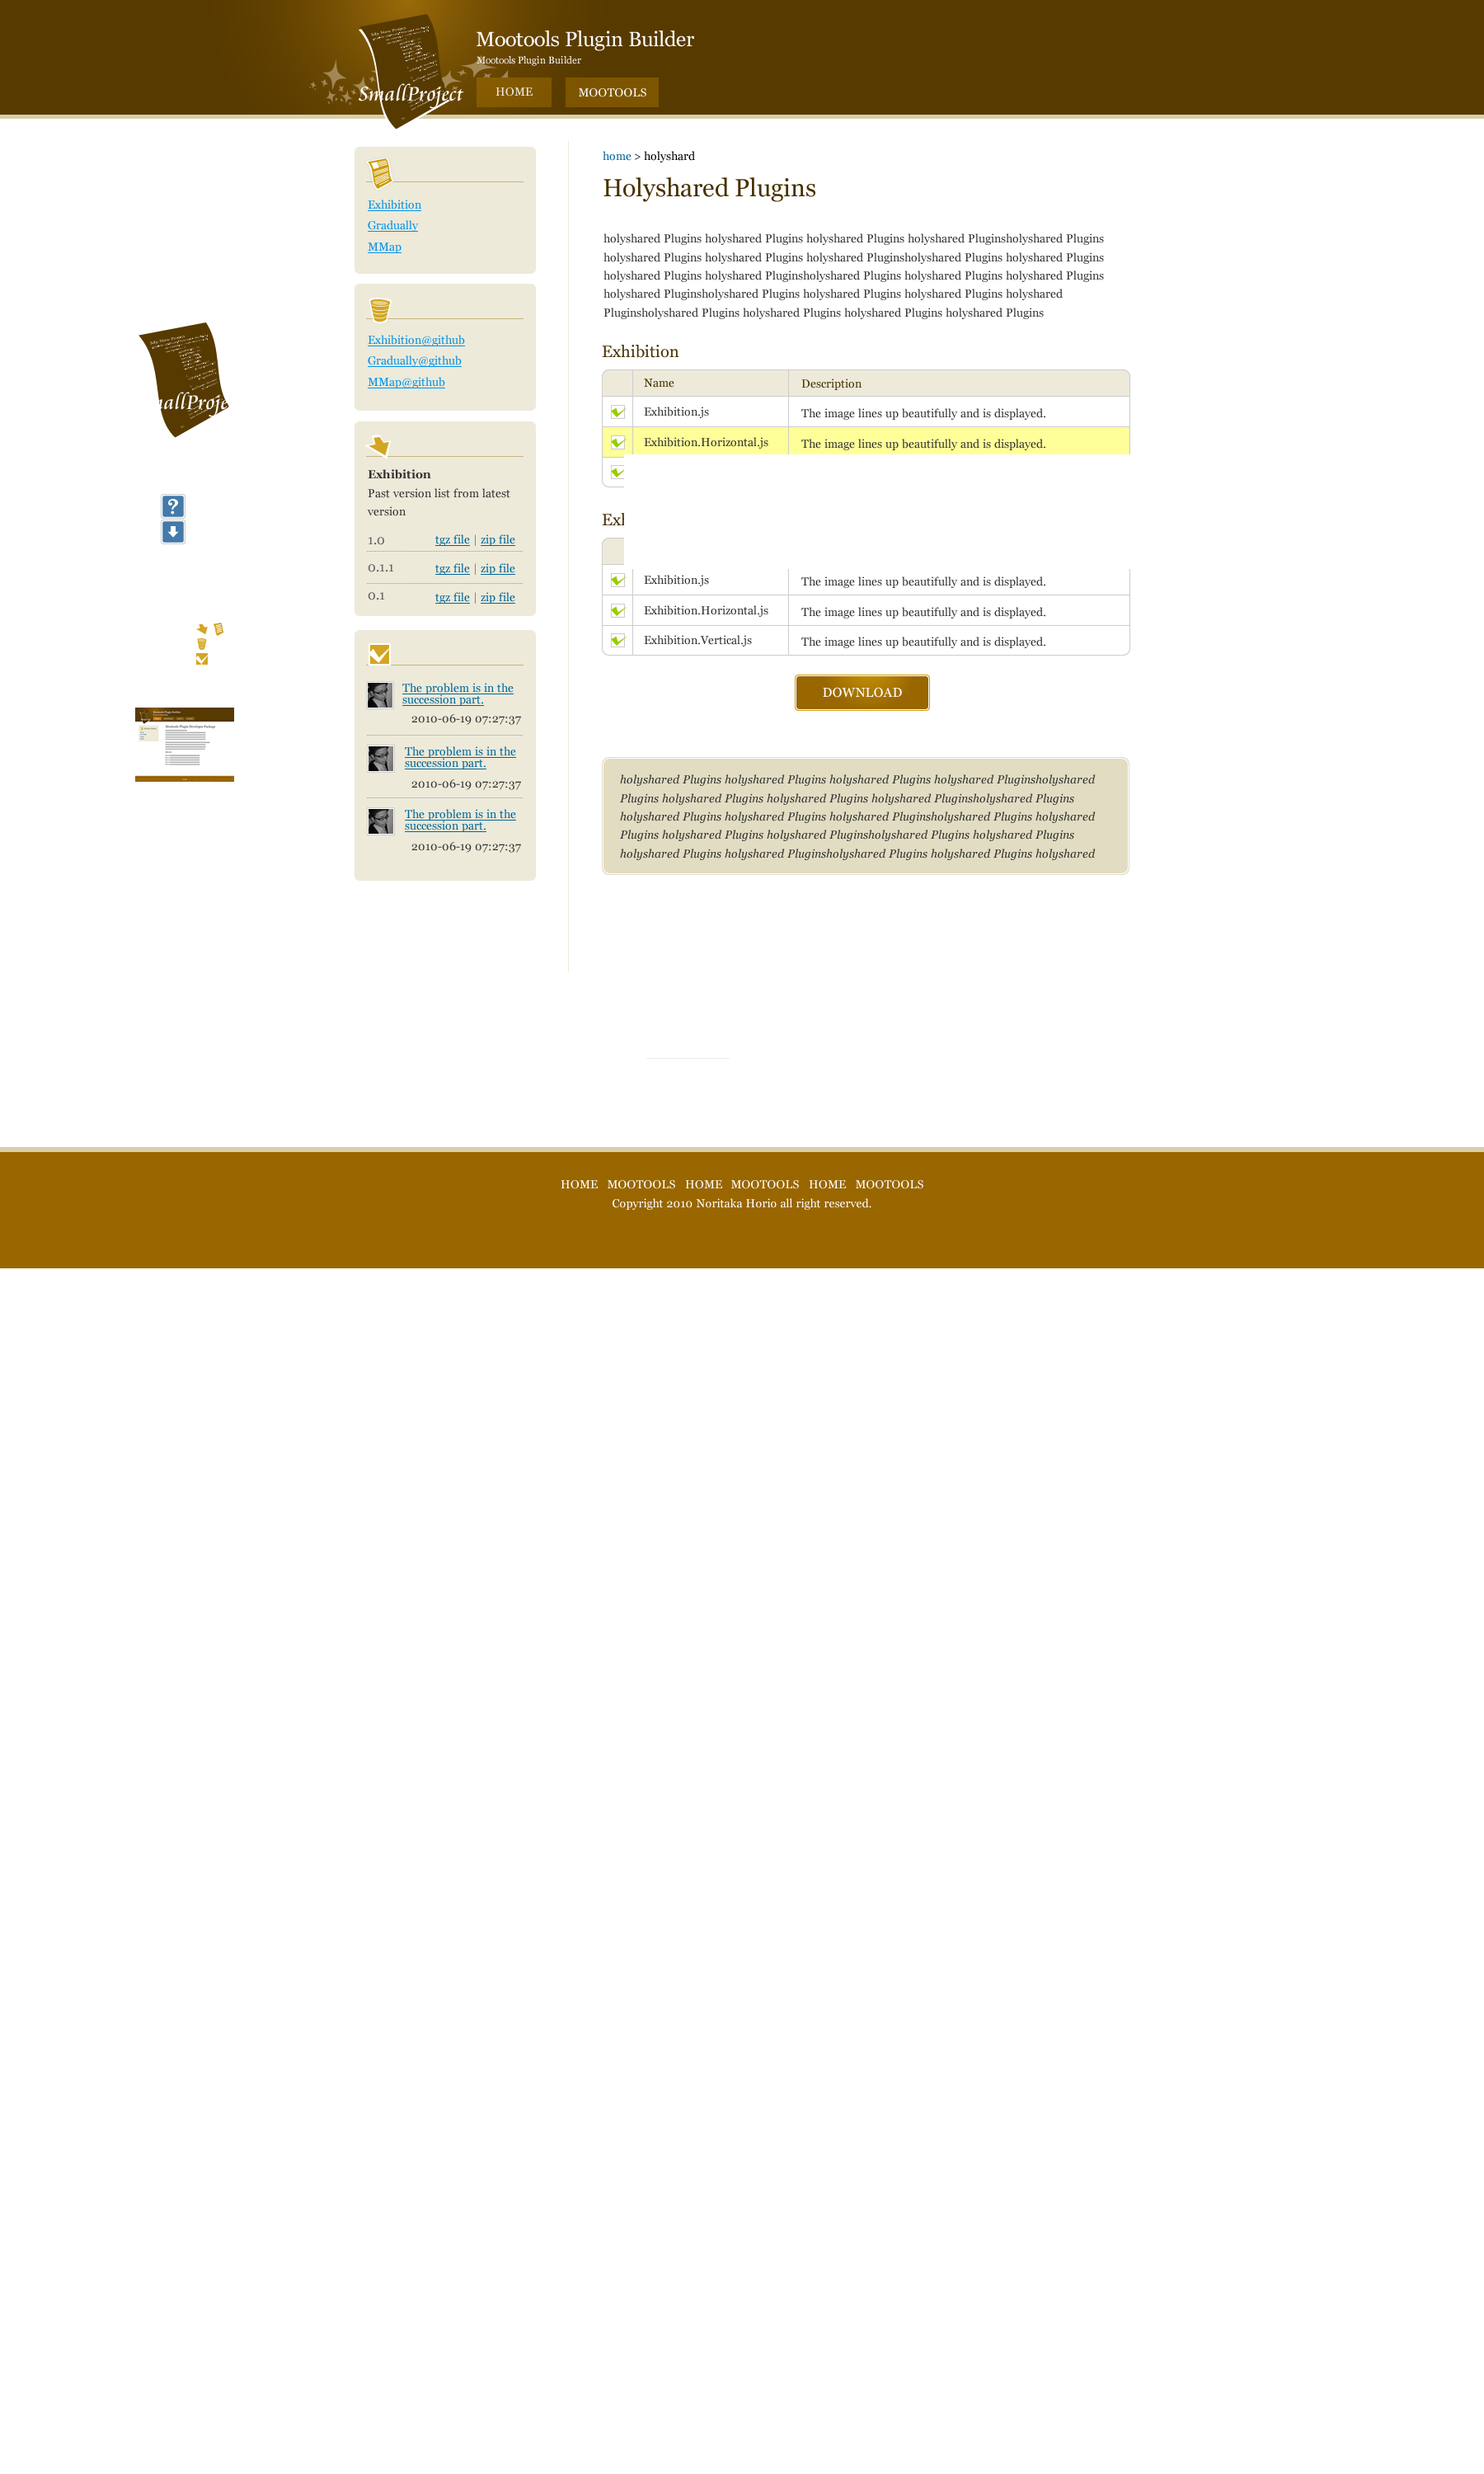
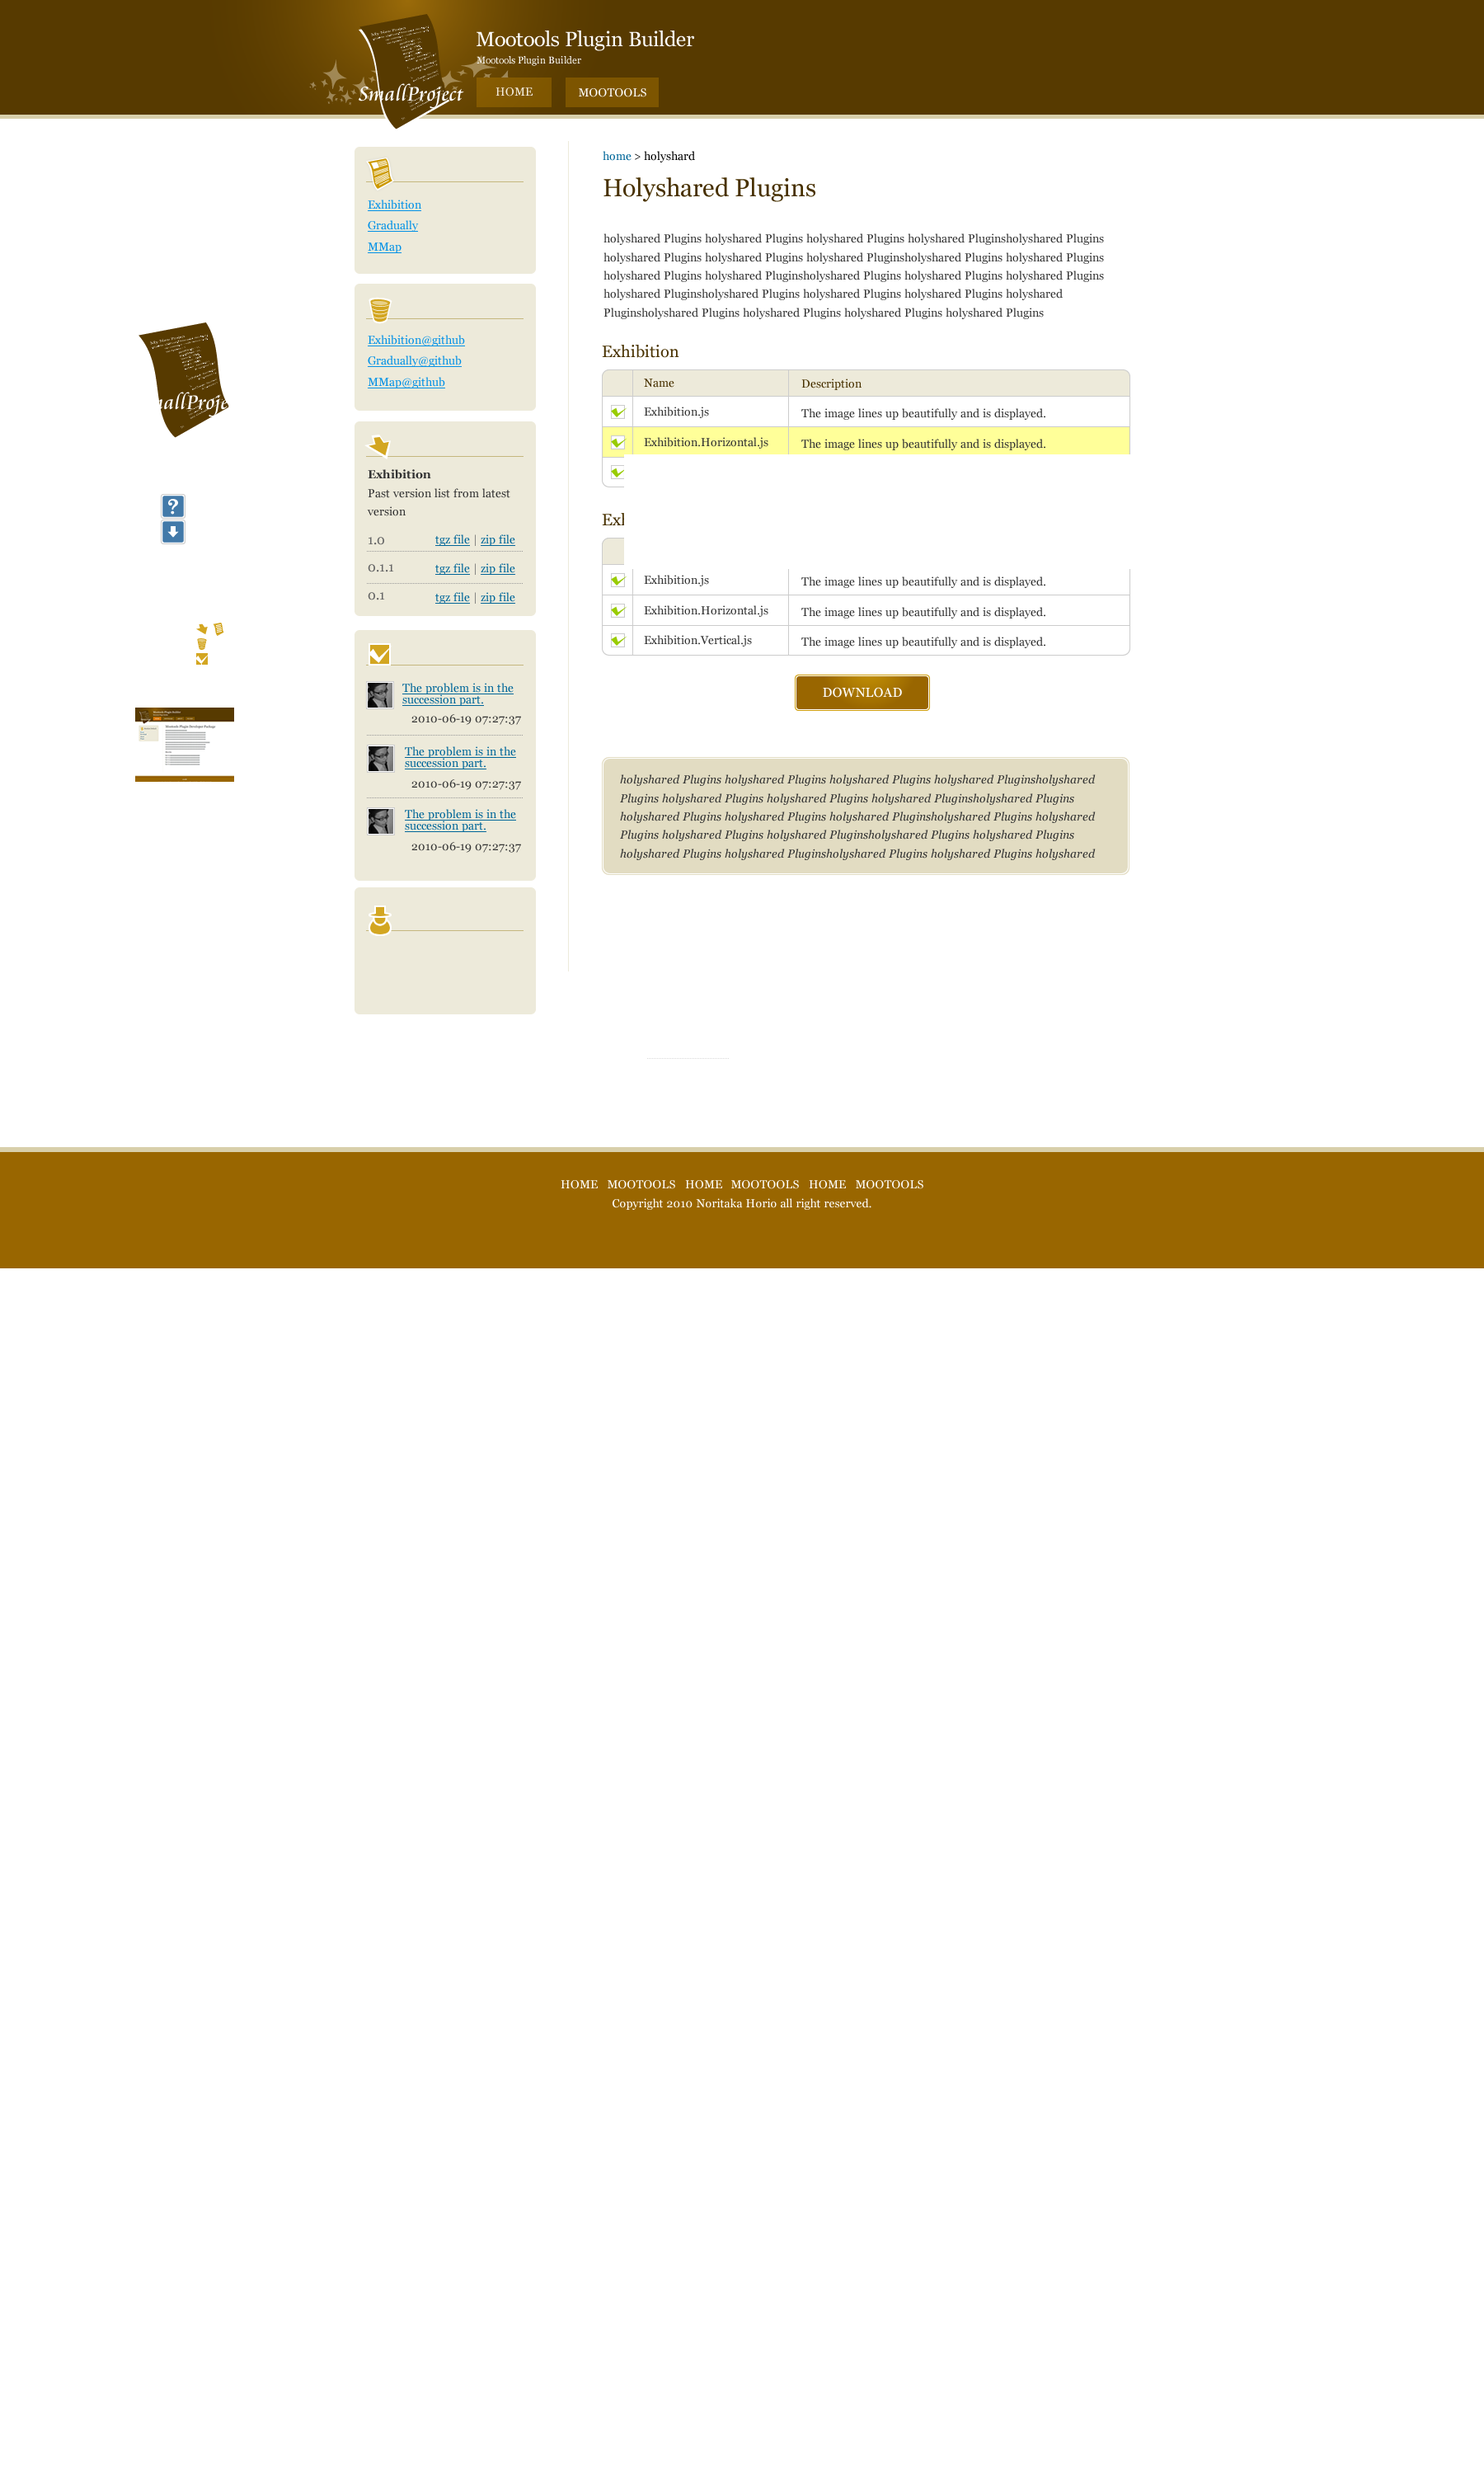
default.php lyaout changed.

Changed region(s): [[0.2178, 0.341, 0.3733, 0.434]]

diff --git a/packages/frontend_developer/themes/small_project/css/mod.css b/packages/frontend_developer/themes/small_project/css/mod.css
@@ -36,13 +36,16 @@ version: 0.2
 .repos { background: url(images/bgi_repos.gif) no-repeat left top; }
 .download { background: url(images/bgi_download.gif) no-repeat left top; }
 .issues { background: url(images/bgi_issues.gif) no-repeat left top; }
+.user { background: url(images/bgi_user.gif) no-repeat left top; }
 
 
 .local h4, .local .h4,
 .repos h4, .repos .h4, 
 .download h4, .download .h4,
-.issues h4, .issues .h4 {
+.issues h4, .issues .h4,
+.user h4, .user .h4 {
 	font-weight: normal;
+	margin-bottom: 15px;
 }
 
 
@@ -99,18 +102,11 @@ version: 0.2
 .plugin-download h3, .plugin-download .h3 { background: url(images/img_h3_download.gif) no-repeat left top; }
 
 /*================== guide =====================*/
-.plugin-desc {
-}
+.plugin-desc { overflow: hidden; }
+.plugin-desc .photo { float: left; margin-right: 20px; }
 
-.plugin-desc {
-	overflow: hidden;
-}
-
-.plugin-desc .photo {
-	float: left;
-	margin-right: 20px;
-}
-
+/*================== banner =====================*/
+.banner { text-align: center; }
 
 /*================== credit =====================*/
 .credit { text-align: center; color: #ffffff; }

diff --git a/packages/frontend_developer/themes/small_project/css/template.css b/packages/frontend_developer/themes/small_project/css/template.css
@@ -3,7 +3,9 @@
 /* ====== Page Head, Body, and Foot ====== */
 body{_text-align:center;}/* IE5.5 */
 .main{display:table-cell;*display:block;width:auto; }
-.body { background: url(images/bgi_sep.gif) repeat-y 271px top; }
+.body { background: none; }
+.multi { background: url(images/bgi_sep.gif) repeat-y 271px top; }
+
 .body,.main{*zoom:1; }
 .body:after,.main:after{clear:both;display:block;visibility:hidden;overflow:hidden;height:0 !important;line-height:0;font-size:xx-large;content:" x x x x x x x x x x x x x x x x x x x x x x x x x x x x x x x x x x x x x x x x x x x x x x x x x x x x x x x x x x x x x x x x x x x x x x x x x x x x x x x x x x x x x x x x x x x x ";}
 .page{margin:0 auto;width:950px;_text-align:left;} /* wraps other template elems to set width */ /* text-align IE5.5 */

diff --git a/packages/frontend_developer/themes/small_project/typography.css b/packages/frontend_developer/themes/small_project/typography.css
@@ -123,6 +123,22 @@ h1 a:hover, .h1 a:hover {
 	color: #f0e68c;
 }
 
+h3 a img, .h3 a img {
+	vertical-align: middle;
+}
+
+h3 a, .h3 a {
+	margin-left: 10px;
+}
+
+
+
+
+
+
+
+
+
 /* ====== Lists ======*/
 
 .simpleList {}

diff --git a/packages/frontend_developer/themes/small_project/default.php b/packages/frontend_developer/themes/small_project/default.php
@@ -1,17 +1,26 @@
 <?php defined('C5_EXECUTE') or die(_("Access Denied.")); ?>
 <?php $this->inc('elements/header.php'); ?>
 <div class="body gs960">
-	<div class="leftCol yahoo">
-		<?php 
-			$sidebar = new Area('Sidebar');
-			$sidebar->display($c);
-		?>
-	</div>
-	<div class="main mBuilder">
+	<div class="main">
 		<?php 
 			$main = new Area('Main');
 			$main->display($c);
 		?>
+		<div class="gline">
+			<div class="unit size3of4">
+				<?php 
+					$extra1 = new Area('Extra1');
+					$extra1->display($c);
+				?>
+			</div>
+
+			<div class="unit lastUnit size1of4">
+				<?php 
+					$extra2 = new Area('Extra2');
+					$extra2->display($c);
+				?>
+			</div>
+		</div>
 	</div>
 </div>
 <?php  $this->inc('elements/footer.php'); ?>

diff --git a/packages/frontend_developer/themes/small_project/left_sidebar.php b/packages/frontend_developer/themes/small_project/left_sidebar.php
@@ -1,6 +1,6 @@
 <?php defined('C5_EXECUTE') or die(_("Access Denied.")); ?>
 <?php $this->inc('elements/header.php'); ?>
-<div class="body gs960">
+<div class="body multi gs960">
 	<div class="leftCol yahoo">
 		<?php 
 			$sidebar = new Area('Sidebar');

diff --git a/packages/frontend_developer/CHANGELOG.md b/packages/frontend_developer/CHANGELOG.md
@@ -8,6 +8,7 @@ v1.0.1
 * The translation leakage is corrected.
 * It corresponds to Configurable Style Themes. (Configurable Style Themes)[http://www.concrete5.org/documentation/developers/pages/configurable-theme-styles]
 * It is multilingualization as for the title of the table of the builder form.
+* The default of the small project theme is corrected.
 
 v1.0.0.1
 * The download links of **github_tag** are corrected.
